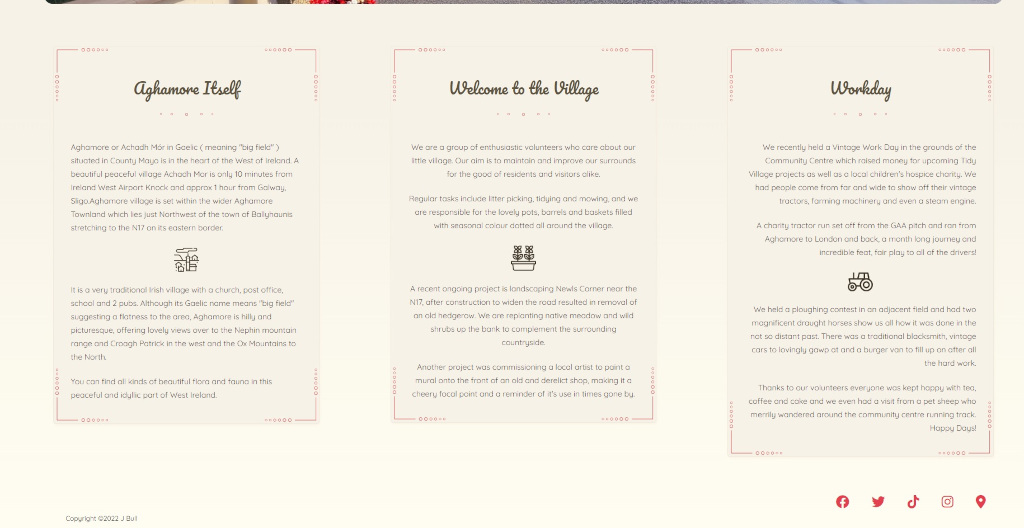
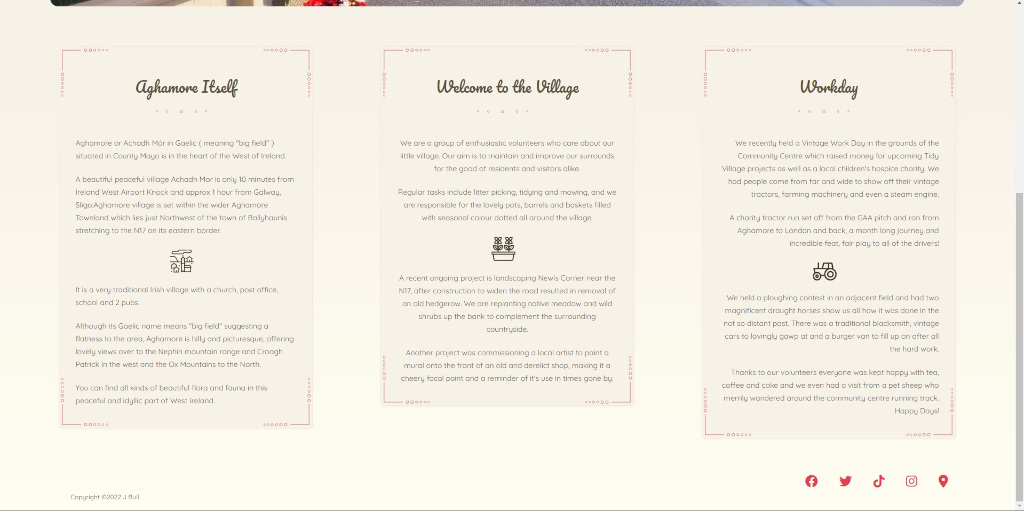
maint: tweak layout of mob about text

diff --git a/index.html b/index.html
@@ -68,9 +68,12 @@
             </div>
             <br>
             <p>
-                Aghamore or Achadh Mór in Gaelic ( meaning "big field" ) situated in County Mayo is in the heart
-                of the West of Ireland. A beautiful peaceful village Achadh Mor is only 10 minutes from Ireland
-                West Airport Knock and approx 1 hour from Galway, Sligo.Aghamore village is set within the
+                Aghamore or Achadh Mór in Gaelic ( meaning "big field" ) situated in County Mayo is in the heart of the
+                West of Ireland.
+            </p>
+            <p>
+                A beautiful peaceful village Achadh Mor is only 10 minutes from Ireland West Airport Knock and approx 1
+                hour from Galway, Sligo.Aghamore village is set within the
                 wider Aghamore Townland which lies just Northwest of the town of Ballyhaunis stretching to the
                 N17 on its eastern border.
             </p>
@@ -79,8 +82,10 @@
                 <img src="assets/images/village_icon.png" alt="" width="45" height="43">
             </div>
             <p>
-                It is a very traditional Irish village with a church, post office, school and 2 pubs. Although its
-                Gaelic name means "big field" suggesting a flatness to the area, Aghamore is hilly and
+                It is a very traditional Irish village with a church, post office, school and 2 pubs.
+            </p>
+            <p>
+                Although its Gaelic name means "big field" suggesting a flatness to the area, Aghamore is hilly and
                 picturesque, offering lovely views over to the Nephin mountain range and Croagh Patrick in the
                 west and the Ox Mountains to the North.
             </p>

diff --git a/assets/css/style.css b/assets/css/style.css
@@ -463,7 +463,7 @@ a {
     width: 100%;
     height: 5px;
     margin: 0;
-    padding: 0;
+    padding: 0 17px 0 0;
     border: none;
     border-radius: 0;
     box-shadow: none;
@@ -476,7 +476,7 @@ a {
     width: 100%;
     height: fit-content;
     margin: 0;
-    padding: 0;
+    padding: 0 15px 0 0;
     border: none;
     justify-content: center;
     box-shadow: none;
@@ -544,6 +544,15 @@ a {
     }
 }
 
+@media screen and (max-width: 674px){
+    #aboutleft {
+        order: 2;
+    }
+
+    #aboutcenter {
+        order: 1;
+    }
+}
 
 /* footer */
 
